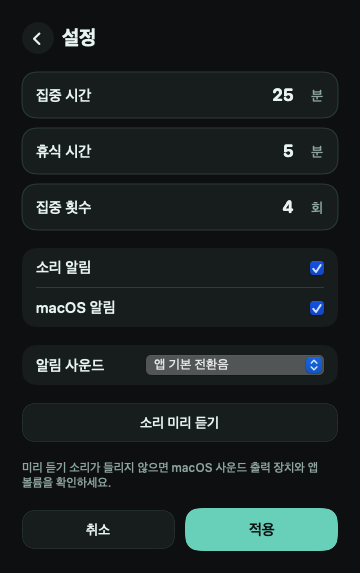
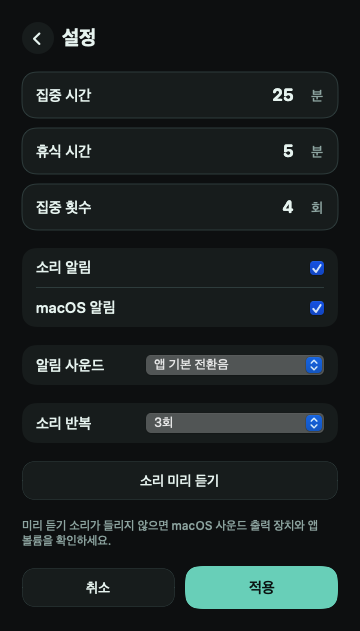
feat: repeat alert sounds with a configurable count
Alert sounds last only 0.5-2 seconds and were easy to miss. Add a
"소리 반복" setting (1-5 times, default 3) that replays the selected
sound with a short gap; a new sound cancels any pending repeats.
Saved settings without the value default to 3, and the preview plays
the chosen count. Update the README, settings screenshot and diagram.

diff --git a/Sources/FocusTimerUI/AlertService.swift b/Sources/FocusTimerUI/AlertService.swift
@@ -6,19 +6,20 @@ import FocusTimerCore
 protocol AlertNotifying: AnyObject {
     func requestNotificationAuthorization()
     func send(_ alert: TimerAlert, settings: AlertSettings)
-    func playSound(_ soundChoice: AlertSoundChoice)
+    func playSound(_ soundChoice: AlertSoundChoice, repeatCount: Int)
 }
 
 final class SilentAlertService: AlertNotifying {
     func requestNotificationAuthorization() {}
     func send(_ alert: TimerAlert, settings: AlertSettings) {}
-    func playSound(_ soundChoice: AlertSoundChoice) {}
+    func playSound(_ soundChoice: AlertSoundChoice, repeatCount: Int) {}
 }
 
 final class AlertService: NSObject, AlertNotifying {
     private let center = UNUserNotificationCenter.current()
     private let transitionSound: NSSound?
     private var systemSounds: [AlertSoundChoice: NSSound] = [:]
+    private var remainingRepeats = 0
 
     override init() {
         transitionSound = Self.loadTransitionSound()
@@ -32,7 +33,7 @@ final class AlertService: NSObject, AlertNotifying {
 
     func send(_ alert: TimerAlert, settings: AlertSettings) {
         if settings.soundEnabled {
-            playSound(settings.soundChoice)
+            playSound(settings.soundChoice, repeatCount: settings.soundRepeatCount)
         }
 
         guard settings.notificationsEnabled else {
@@ -47,17 +48,27 @@ final class AlertService: NSObject, AlertNotifying {
         center.add(request) { _ in }
     }
 
-    func playSound(_ soundChoice: AlertSoundChoice) {
+    func playSound(_ soundChoice: AlertSoundChoice, repeatCount: Int) {
+        // 새 소리가 시작되면 이전 소리의 남은 반복은 취소합니다.
+        NSObject.cancelPreviousPerformRequests(withTarget: self)
+        remainingRepeats = 0
+        transitionSound?.stop()
+        systemSounds.values.forEach { $0.stop() }
+
         guard let sound = sound(for: soundChoice) else {
             NSSound.beep()
             return
         }
 
-        transitionSound?.stop()
-        systemSounds.values.forEach { $0.stop() }
+        remainingRepeats = repeatCount - 1
+        sound.delegate = self
         if !sound.play() {
             NSSound.beep()
         }
+    }
+
+    @objc private func replay(_ sound: NSSound) {
+        sound.play()
     }
 
     private func sound(for soundChoice: AlertSoundChoice) -> NSSound? {
@@ -91,6 +102,17 @@ final class AlertService: NSObject, AlertNotifying {
         let sound = NSSound(contentsOf: url, byReference: false)
         sound?.volume = 1.0
         return sound
+    }
+}
+
+extension AlertService: NSSoundDelegate {
+    /// 소리가 끝까지 재생되면 잠깐 쉬고 남은 횟수만큼 다시 재생합니다. stop()으로 끊긴 경우(finished == false)는 반복하지 않습니다.
+    func sound(_ sound: NSSound, didFinishPlaying finished: Bool) {
+        guard finished, remainingRepeats > 0 else {
+            return
+        }
+        remainingRepeats -= 1
+        perform(#selector(replay(_:)), with: sound, afterDelay: 0.3)
     }
 }
 

diff --git a/Sources/FocusTimerUI/SettingsView.swift b/Sources/FocusTimerUI/SettingsView.swift
@@ -16,6 +16,7 @@ public struct SettingsView: View {
     @State private var soundEnabled = true
     @State private var notificationsEnabled = true
     @State private var soundChoice = AlertSoundChoice.appDefault
+    @State private var soundRepeatCount = AlertSettings().soundRepeatCount
     @State private var validationMessage: String?
 
     public var body: some View {
@@ -61,8 +62,29 @@ public struct SettingsView: View {
             .opacity(timerStore.state.isRunning || !soundEnabled ? 0.45 : 1)
             .allowsHitTesting(!timerStore.state.isRunning)
 
+            HStack {
+                Text("소리 반복")
+                    .font(.system(size: 15, weight: .medium, design: .rounded))
+                    .foregroundStyle(FocusTheme.textPrimary)
+                Spacer()
+                Picker("소리 반복", selection: $soundRepeatCount) {
+                    ForEach(AlertSettings.soundRepeatRange, id: \.self) { count in
+                        Text("\(count)회").tag(count)
+                    }
+                }
+                .labelsHidden()
+                .pickerStyle(.menu)
+                .frame(width: 178)
+                .disabled(!soundEnabled)
+            }
+            .padding(.horizontal, 14)
+            .padding(.vertical, 10)
+            .background(FocusTheme.surface, in: RoundedRectangle(cornerRadius: 14, style: .continuous))
+            .opacity(timerStore.state.isRunning || !soundEnabled ? 0.45 : 1)
+            .allowsHitTesting(!timerStore.state.isRunning)
+
             Button("소리 미리 듣기") {
-                timerStore.previewSound(soundChoice)
+                timerStore.previewSound(soundChoice, repeatCount: soundRepeatCount)
             }
             .buttonStyle(FocusSecondaryButtonStyle())
 
@@ -176,6 +198,7 @@ public struct SettingsView: View {
         soundEnabled = timerStore.alertSettings.soundEnabled
         notificationsEnabled = timerStore.alertSettings.notificationsEnabled
         soundChoice = timerStore.alertSettings.soundChoice
+        soundRepeatCount = timerStore.alertSettings.soundRepeatCount
         validationMessage = nil
     }
 
@@ -195,7 +218,8 @@ public struct SettingsView: View {
             alertSettings: AlertSettings(
                 soundEnabled: soundEnabled,
                 notificationsEnabled: notificationsEnabled,
-                soundChoice: soundChoice
+                soundChoice: soundChoice,
+                soundRepeatCount: soundRepeatCount
             )
         )
         onClose()

diff --git a/Sources/FocusTimerCore/Models.swift b/Sources/FocusTimerCore/Models.swift
@@ -60,21 +60,32 @@ public struct AlertSettings: Codable, Equatable {
     public var soundEnabled: Bool
     public var notificationsEnabled: Bool
     public var soundChoice: AlertSoundChoice
+    /// 알림 소리를 연달아 재생할 횟수입니다. 소리가 1초 안팎으로 짧아 놓치지 않도록 기본 3회입니다.
+    public var soundRepeatCount: Int
+
+    public static let soundRepeatRange = 1...5
 
     public init(
         soundEnabled: Bool = true,
         notificationsEnabled: Bool = true,
-        soundChoice: AlertSoundChoice = .appDefault
+        soundChoice: AlertSoundChoice = .appDefault,
+        soundRepeatCount: Int = 3
     ) {
         self.soundEnabled = soundEnabled
         self.notificationsEnabled = notificationsEnabled
         self.soundChoice = soundChoice
+        self.soundRepeatCount = Self.clampedRepeatCount(soundRepeatCount)
+    }
+
+    private static func clampedRepeatCount(_ count: Int) -> Int {
+        min(max(count, soundRepeatRange.lowerBound), soundRepeatRange.upperBound)
     }
 
     private enum CodingKeys: String, CodingKey {
         case soundEnabled
         case notificationsEnabled
         case soundChoice
+        case soundRepeatCount
     }
 
     public init(from decoder: any Decoder) throws {
@@ -82,6 +93,7 @@ public struct AlertSettings: Codable, Equatable {
         soundEnabled = try container.decodeIfPresent(Bool.self, forKey: .soundEnabled) ?? true
         notificationsEnabled = try container.decodeIfPresent(Bool.self, forKey: .notificationsEnabled) ?? true
         soundChoice = (try? container.decode(AlertSoundChoice.self, forKey: .soundChoice)) ?? .appDefault
+        soundRepeatCount = Self.clampedRepeatCount(try container.decodeIfPresent(Int.self, forKey: .soundRepeatCount) ?? 3)
     }
 
     public func encode(to encoder: any Encoder) throws {
@@ -89,6 +101,7 @@ public struct AlertSettings: Codable, Equatable {
         try container.encode(soundEnabled, forKey: .soundEnabled)
         try container.encode(notificationsEnabled, forKey: .notificationsEnabled)
         try container.encode(soundChoice, forKey: .soundChoice)
+        try container.encode(soundRepeatCount, forKey: .soundRepeatCount)
     }
 }
 

diff --git a/TDDTests/FocusTimerTDDTests.swift b/TDDTests/FocusTimerTDDTests.swift
@@ -27,6 +27,22 @@ struct FocusTimerTDDTests {
                 let settings = try JSONDecoder().decode(AlertSettings.self, from: legacyData)
                 try expectEqual(settings.soundChoice, .appDefault)
             }),
+            ("alert settings repeat sound 3 times by default", {
+                try expectEqual(AlertSettings().soundRepeatCount, 3)
+                let legacyData = Data(#"{"soundEnabled":true,"notificationsEnabled":true,"soundChoice":"Glass"}"#.utf8)
+                try expectEqual(try JSONDecoder().decode(AlertSettings.self, from: legacyData).soundRepeatCount, 3)
+            }),
+            ("alert settings preserve sound repeat count", {
+                let settings = AlertSettings(soundRepeatCount: 5)
+                let decoded = try JSONDecoder().decode(AlertSettings.self, from: JSONEncoder().encode(settings))
+                try expectEqual(decoded.soundRepeatCount, 5)
+            }),
+            ("alert settings clamp sound repeat count to 1...5", {
+                try expectEqual(AlertSettings(soundRepeatCount: 0).soundRepeatCount, 1)
+                try expectEqual(AlertSettings(soundRepeatCount: 9).soundRepeatCount, 5)
+                let outOfRange = Data(#"{"soundRepeatCount":9}"#.utf8)
+                try expectEqual(try JSONDecoder().decode(AlertSettings.self, from: outOfRange).soundRepeatCount, 5)
+            }),
             ("focus alert copy", testFocusEndedAlertDescribesStartingBreak),
             ("break alert copy", testBreakEndedAlertDescribesNextFocusSession),
             ("completion alert copy", testCompletionAlertDescribesFinishedFocusSessions),

diff --git a/Sources/FocusTimerUI/PomodoroStore.swift b/Sources/FocusTimerUI/PomodoroStore.swift
@@ -106,8 +106,8 @@ public final class PomodoroStore: ObservableObject {
         beginCountdown()
     }
 
-    func previewSound(_ soundChoice: AlertSoundChoice) {
-        alertService.playSound(soundChoice)
+    func previewSound(_ soundChoice: AlertSoundChoice, repeatCount: Int) {
+        alertService.playSound(soundChoice, repeatCount: repeatCount)
     }
 
     private func beginCountdown() {

diff --git a/README.md b/README.md
@@ -42,7 +42,8 @@
 - 집중 시간, 휴식 시간, 집중 횟수를 1 이상의 정수로 입력합니다.
 - **소리 알림**과 **macOS 알림**을 각각 켜거나 끌 수 있습니다.
 - **알림 사운드**에서 앱 기본 전환음 또는 macOS 시스템 사운드 중 하나를 고를 수 있습니다.
-- **소리 미리 듣기**는 선택한 소리를 즉시 재생합니다.
+- **소리 반복**에서 알림 소리를 연달아 울릴 횟수를 1~5회 중에 고릅니다. 기본값은 3회입니다. 소리가 1초 안팎으로 짧아 놓치기 쉬워서 여러 번 울립니다.
+- **소리 미리 듣기**는 선택한 소리를 선택한 횟수만큼 즉시 재생합니다.
 - **적용**은 설정을 저장하고 타이머 패널로 돌아갑니다.
 - **취소** 또는 왼쪽 화살표는 값을 적용하지 않고 타이머 패널로 돌아갑니다.
 - 타이머가 실행 중이면 설정 입력과 적용은 비활성화됩니다. 타이머 패널에서 **일시정지**하거나 **중지**한 뒤 바꿀 수 있습니다.
@@ -62,7 +63,7 @@
 - 마지막 전 집중이 끝나면 휴식이 자동으로 시작됩니다.
 - 휴식이 끝나면 다음 집중이 자동으로 시작됩니다.
 - 마지막 집중이 끝나면 **타이머 완료** 상태가 됩니다.
-- 켜진 설정에 따라 각 자연 종료 시 앱 전용 chime과 macOS 로컬 알림을 보냅니다.
+- 켜진 설정에 따라 각 자연 종료 시 선택한 알림 소리(기본 3회 반복)와 macOS 로컬 알림을 보냅니다.
 
 ## 4. 프로필 패널
 
